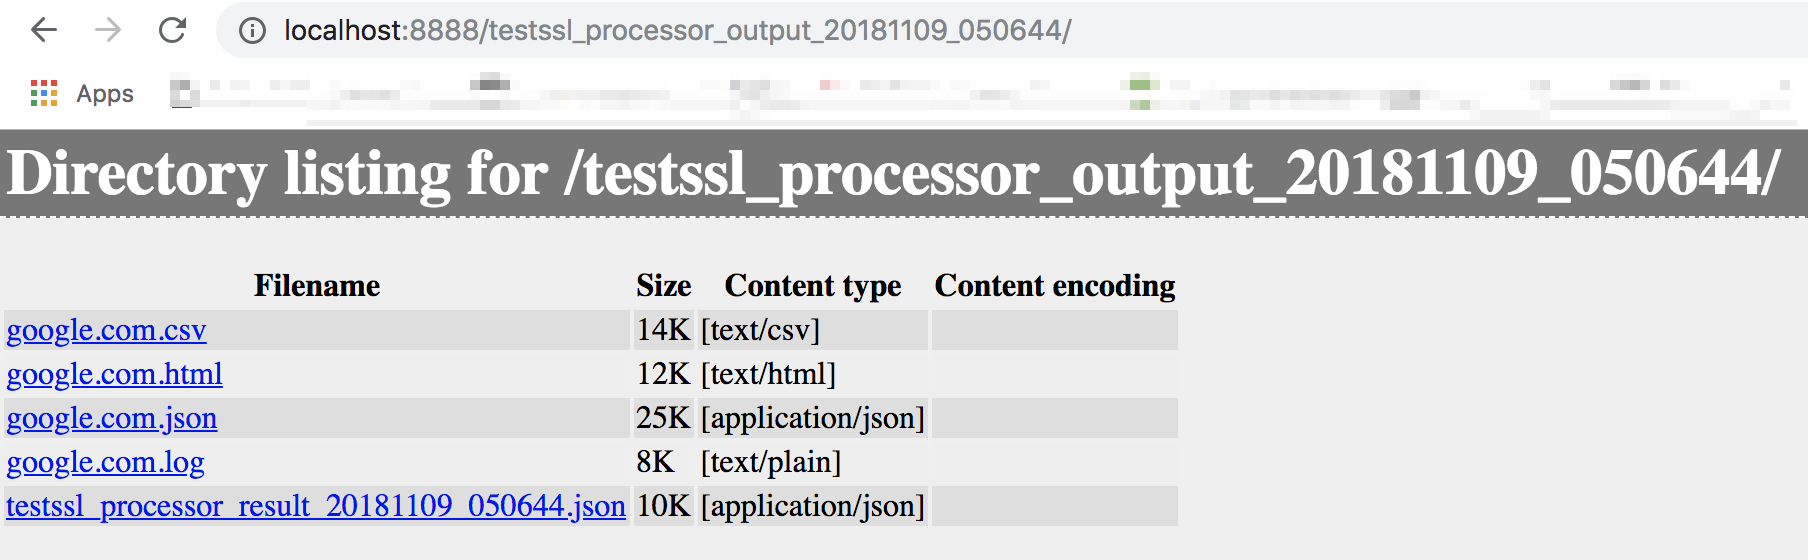
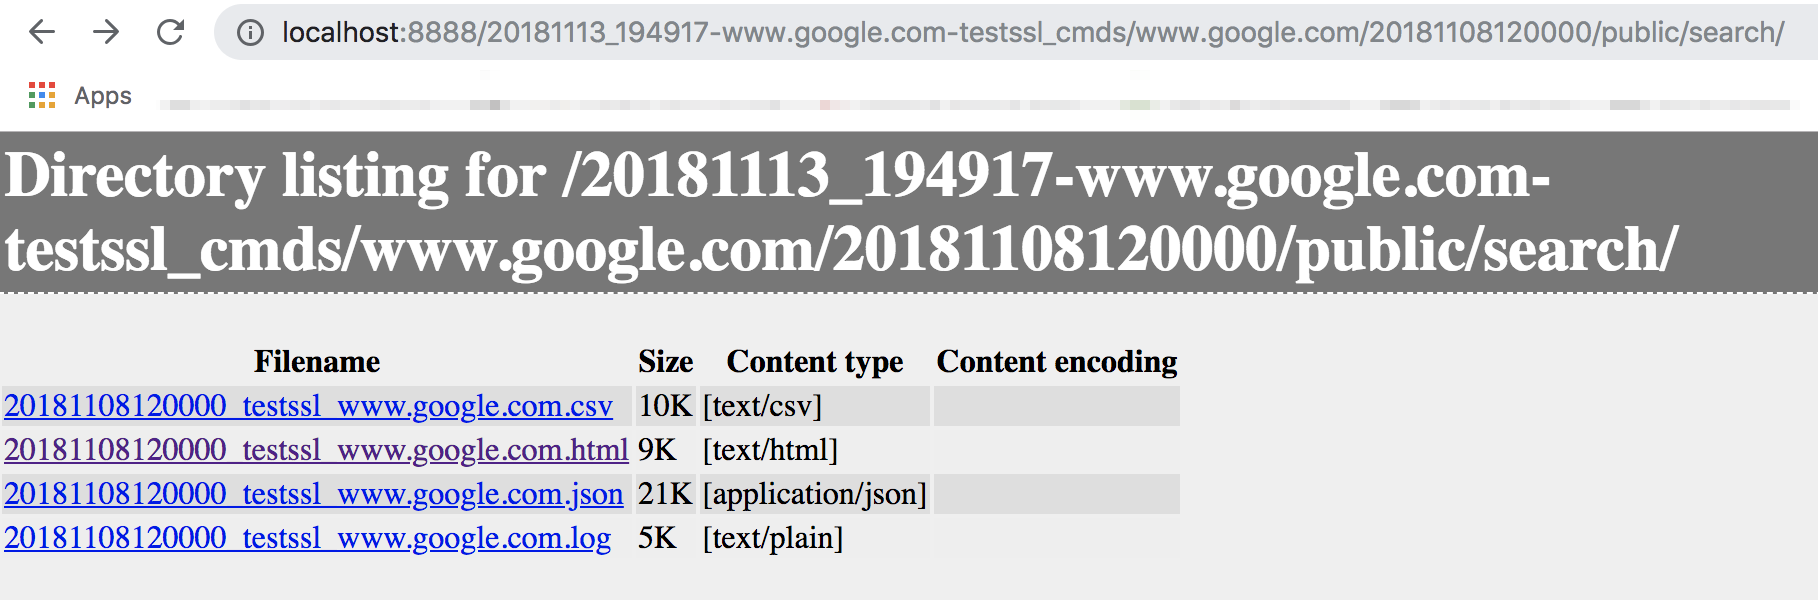
update example

diff --git a/testssl_processor.py b/testssl_processor.py
@@ -238,7 +238,7 @@ class TestsslProcessor(object):
 
                 # log the processor execution results
                 output_filename = outputdir_root + "/" + self.result_filename_prefix + "_" + timestamp
-                print(self.result_format)
+
                 if self.result_format == 'yaml':
                     output_filename += ".yaml"
                 else:
@@ -293,7 +293,6 @@ class TestsslInputFileMonitor(FileSystemEventHandler):
         super(TestsslInputFileMonitor, self).on_created(event)
 
         if not self.executor:
-            print(self.threads)
             self.executor = concurrent.futures.ThreadPoolExecutor(max_workers=self.threads)
 
         if event.is_directory:

diff --git a/README.md b/README.md
@@ -117,24 +117,24 @@ mkdir output
   --output-dir-httpserver-port 8888
 ```
 
-Given a `testssl_cmds` file with contents below dropped into directory `input/`
+Given a `testssl_cmds` file (see `sample/` dir) dropped into directory `input/`.
 
 ```
-testssl.sh -S -P -p --fast --logfile google.com.log --jsonfile-pretty google.com.json --csvfile google.com.csv --htmlfile google.com.html https://google.com
+cp sample/www.google.com-testssl_cmds input/
 ```
 
 Now the `testssl_processor.py` output shows:
 
 ```
-2018-11-09 05:06:07,174 - root - INFO - Monitoring for new testssl_cmds files at: ./input with filename filter: testssl_cmds
-2018-11-09 05:06:07,175 - root - INFO - Starting HTTP server listening on: 8888 and serving up: ./output
-2018-11-09 05:06:39,403 - root - INFO - Responding to creation of file: ./input/testssl_cmds
-2018-11-09 05:06:44,408 - root - INFO - Processing testssl_cmds: './input/testssl_cmds'
-2018-11-09 05:06:44,431 - root - INFO - Processing testssl_cmd: 'testssl.sh -S -P -p --fast --logfile google.com.log --jsonfile-pretty google.com.json --csvfile google.com.csv --htmlfile google.com.html https://google.com'
-2018-11-09 05:07:40,826 - root - DEBUG - Command finished: exit code: 0 stdout.len:9014 stderr.len:0 cmd: /private/tmp/junk/testssl.sh-processor/testssl.sh/testssl.sh -S -P -p --fast --logfile google.com.log --jsonfile-pretty google.com.json --csvfile google.com.csv --htmlfile google.com.html https://google.com
-json
-2018-11-09 05:07:40,830 - root - DEBUG - Event 20181109_050644 Testssl processor result written to: ./output/testssl_processor_output_20181109_050644/testssl_processor_result_20181109_050644.json
-2018-11-09 05:07:40,924 - root - DEBUG - Pool closed and terminated
+2018-11-13 19:49:10,022 - root - INFO - Monitoring for new testssl_cmds files at: ./input with filename filter: testssl_cmds
+2018-11-13 19:49:10,023 - root - INFO - Starting HTTP server listening on: 8888 and serving up: ./output
+2018-11-13 19:49:12,311 - root - INFO - Responding to creation of file: ./input/www.google.com-testssl_cmds
+2018-11-13 19:49:17,317 - root - INFO - Processing testssl_cmds: './input/www.google.com-testssl_cmds'
+2018-11-13 19:49:17,340 - root - INFO - Processing testssl_cmd: 'testssl.sh -S -P -p --fast --logfile www.google.com/20181108120000/public/search/20181108120000_testssl_www.google.com.log --jsonfile-pretty www.google.com/20181108120000/public/search/20181108120000_testssl_www.google.com.json --csvfile www.google.com/20181108120000/public/search/20181108120000_testssl_www.google.com.csv --htmlfile www.google.com/20181108120000/public/search/20181108120000_testssl_www.google.com.html https://www.google.com'
+making dir: ./output/20181113_194917-www.google.com-testssl_cmds/www.google.com/20181108120000/public/search
+2018-11-13 19:50:03,392 - root - DEBUG - Command finished: exit code: 0 stdout.len:5752 stderr.len:0 cmd: /Users/inter0p/Documents/omg/code/github.com/bitsofinfo/testssl.sh-processor/testssl.sh/testssl.sh -S -P -p --fast --logfile www.google.com/20181108120000/public/search/20181108120000_testssl_www.google.com.log --jsonfile-pretty www.google.com/20181108120000/public/search/20181108120000_testssl_www.google.com.json --csvfile www.google.com/20181108120000/public/search/20181108120000_testssl_www.google.com.csv --htmlfile www.google.com/20181108120000/public/search/20181108120000_testssl_www.google.com.html https://www.google.com
+2018-11-13 19:50:03,394 - root - DEBUG - Event 20181113_194917 Testssl processor result written to: ./output/20181113_194917-www.google.com-testssl_cmds/testssl_processor_result_20181113_194917.json
+2018-11-13 19:50:03,495 - root - DEBUG - Pool closed and terminated
 ```
 
 The contents of our `input/` and `output/` dirs is now as follows.
@@ -148,15 +148,15 @@ Contents of `testssl_processor_result_*.json`:
 [
     {
         "success": true,
-        "orig_cmd": "testssl.sh -S -P -p --fast --logfile google.com.log --jsonfile-pretty google.com.json --csvfile google.com.csv --htmlfile google.com.html https://google.com",
-        "timestamp": "20181109_050644",
+        "orig_cmd": "testssl.sh -S -P -p --fast --logfile www.google.com/20181108120000/public/search/20181108120000_testssl_www.google.com.log --jsonfile-pretty www.google.com/20181108120000/public/search/20181108120000_testssl_www.google.com.json --csvfile www.google.com/20181108120000/public/search/20181108120000_testssl_www.google.com.csv --htmlfile www.google.com/20181108120000/public/search/20181108120000_testssl_www.google.com.html https://www.google.com",
+        "timestamp": "20181113_194917",
         "testssl_path_if_missing": "./testssl.sh",
-        "actual_cmd": "/private/tmp/junk/testssl.sh-processor/testssl.sh/testssl.sh -S -P -p --fast --logfile google.com.log --jsonfile-pretty google.com.json --csvfile google.com.csv --htmlfile google.com.html https://google.com",
-        "cwd": "./output/testssl_processor_output_20181109_050644",
+        "actual_cmd": "/home/bitsofinfo/testssl.sh-processor/testssl.sh/testssl.sh -S -P -p --fast --logfile www.google.com/20181108120000/public/search/20181108120000_testssl_www.google.com.log --jsonfile-pretty www.google.com/20181108120000/public/search/20181108120000_testssl_www.google.com.json --csvfile www.google.com/20181108120000/public/search/20181108120000_testssl_www.google.com.csv --htmlfile www.google.com/20181108120000/public/search/20181108120000_testssl_www.google.com.html https://www.google.com",
+        "cwd": "./output/20181113_194917-www.google.com-testssl_cmds",
         "returncode": 0,
-        "stdout": "\u001b[1m\n###########################################################\n    testssl.sh       3.0rc2 from \u001b[m\u001b[1mhttps://testssl.sh/dev/\u001b[m\n\u001b[1m    (\u001b[m\u001b[1;30mafe1419 2018-11-08 22:00:47 -- \u001b[m\u001b[1m)\u001b[m\n\u001b[1m\n      ...........",
+        "stdout": "\u001b[1m\n###########################################################\n    testssl.sh       3.0rc2 from \u001b[m\u001b[1mhttps://testssl.sh/dev/.................. ... .. . .172.217.6.68:443 (www.google.com) <<--\u001b[m\n\n\n",
         "stderr": "",
-        "exec_ms": 56395.165
+        "exec_ms": 46051.146
     }
 ]
 ```
@@ -167,7 +167,7 @@ Hitting http://localhost:8888 in a browser:
 
 ## Related
 
-* If you would like to send alerts based on the results of the `testssl.sh` JSON result file output produced by this, take a look at [testssl.sh-alerts](https://github.com/bitsofinfo/testssl.sh-alerts) at https://github.com/bitsofinfo/testssl.sh-alerts
+* If you would like to react and send alerts or copy files around based on the results of the `testssl.sh` JSON result file output produced by this, take a look at [testssl.sh-alerts](https://github.com/bitsofinfo/testssl.sh-alerts) at https://github.com/bitsofinfo/testssl.sh-alerts
 
 * This tool was originally developed to consume `testssl.sh` command files generated as part of the [swarm-traefik-state-analyzer](https://github.com/bitsofinfo/swarm-traefik-state-analyzer/blob/master/docs/tlsssltools.md) project's [testsslcmdsgeneratory.py](https://github.com/bitsofinfo/swarm-traefik-state-analyzer/blob/master/docs/tlsssltools.md) script as part of a larger pipeline of scripts that continously monitors the state of applications deployed on Docker Swarm clusters.
 
